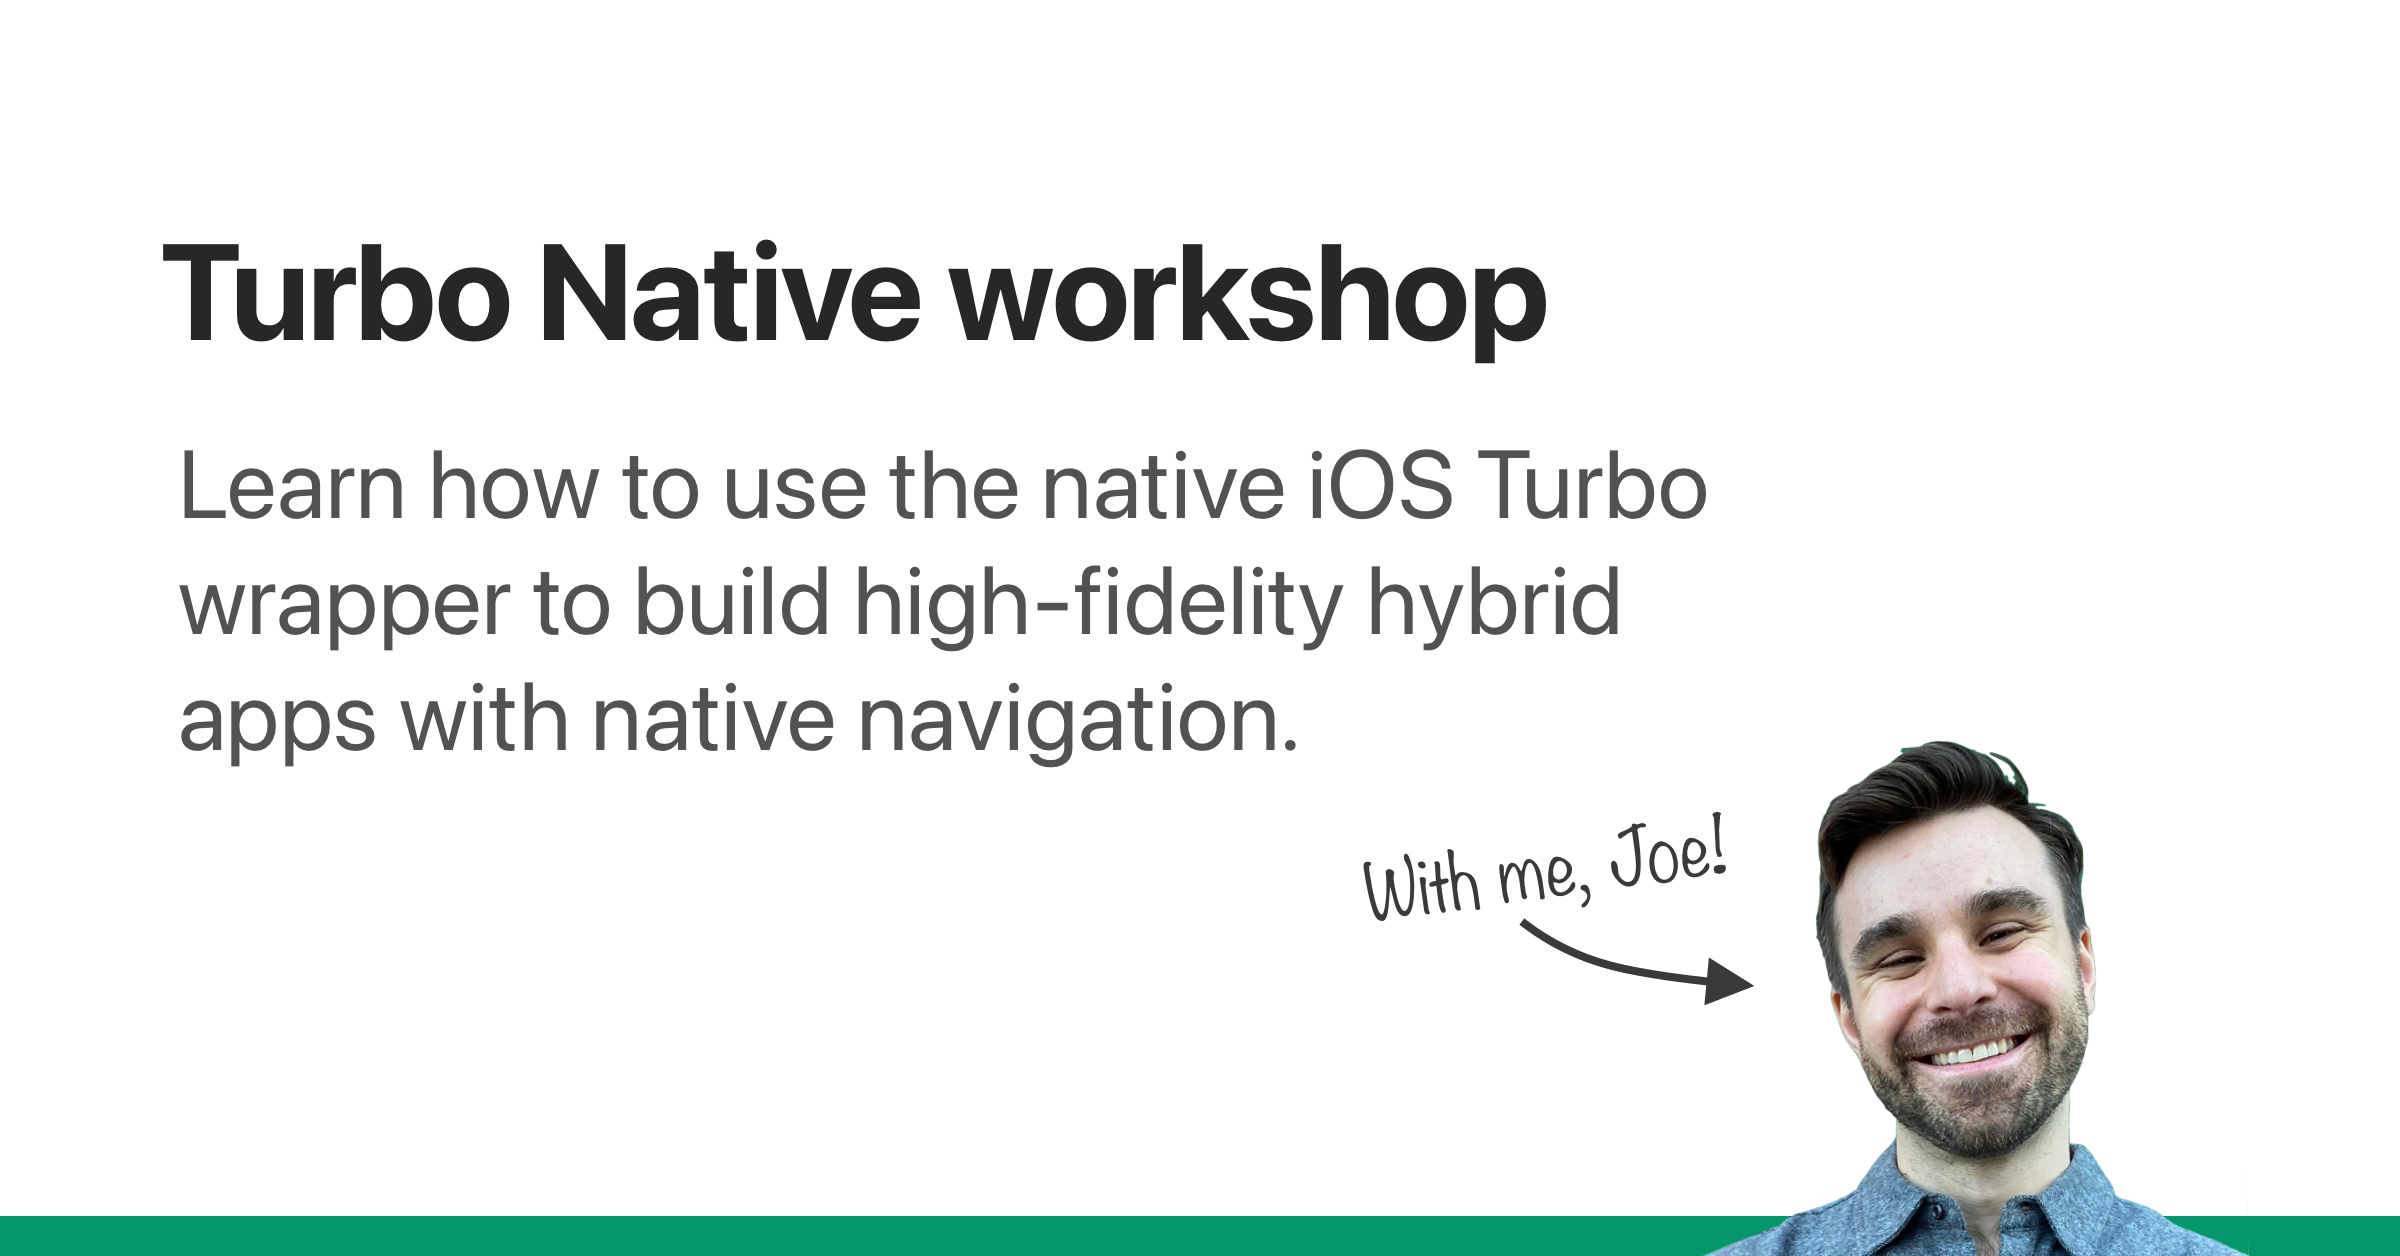
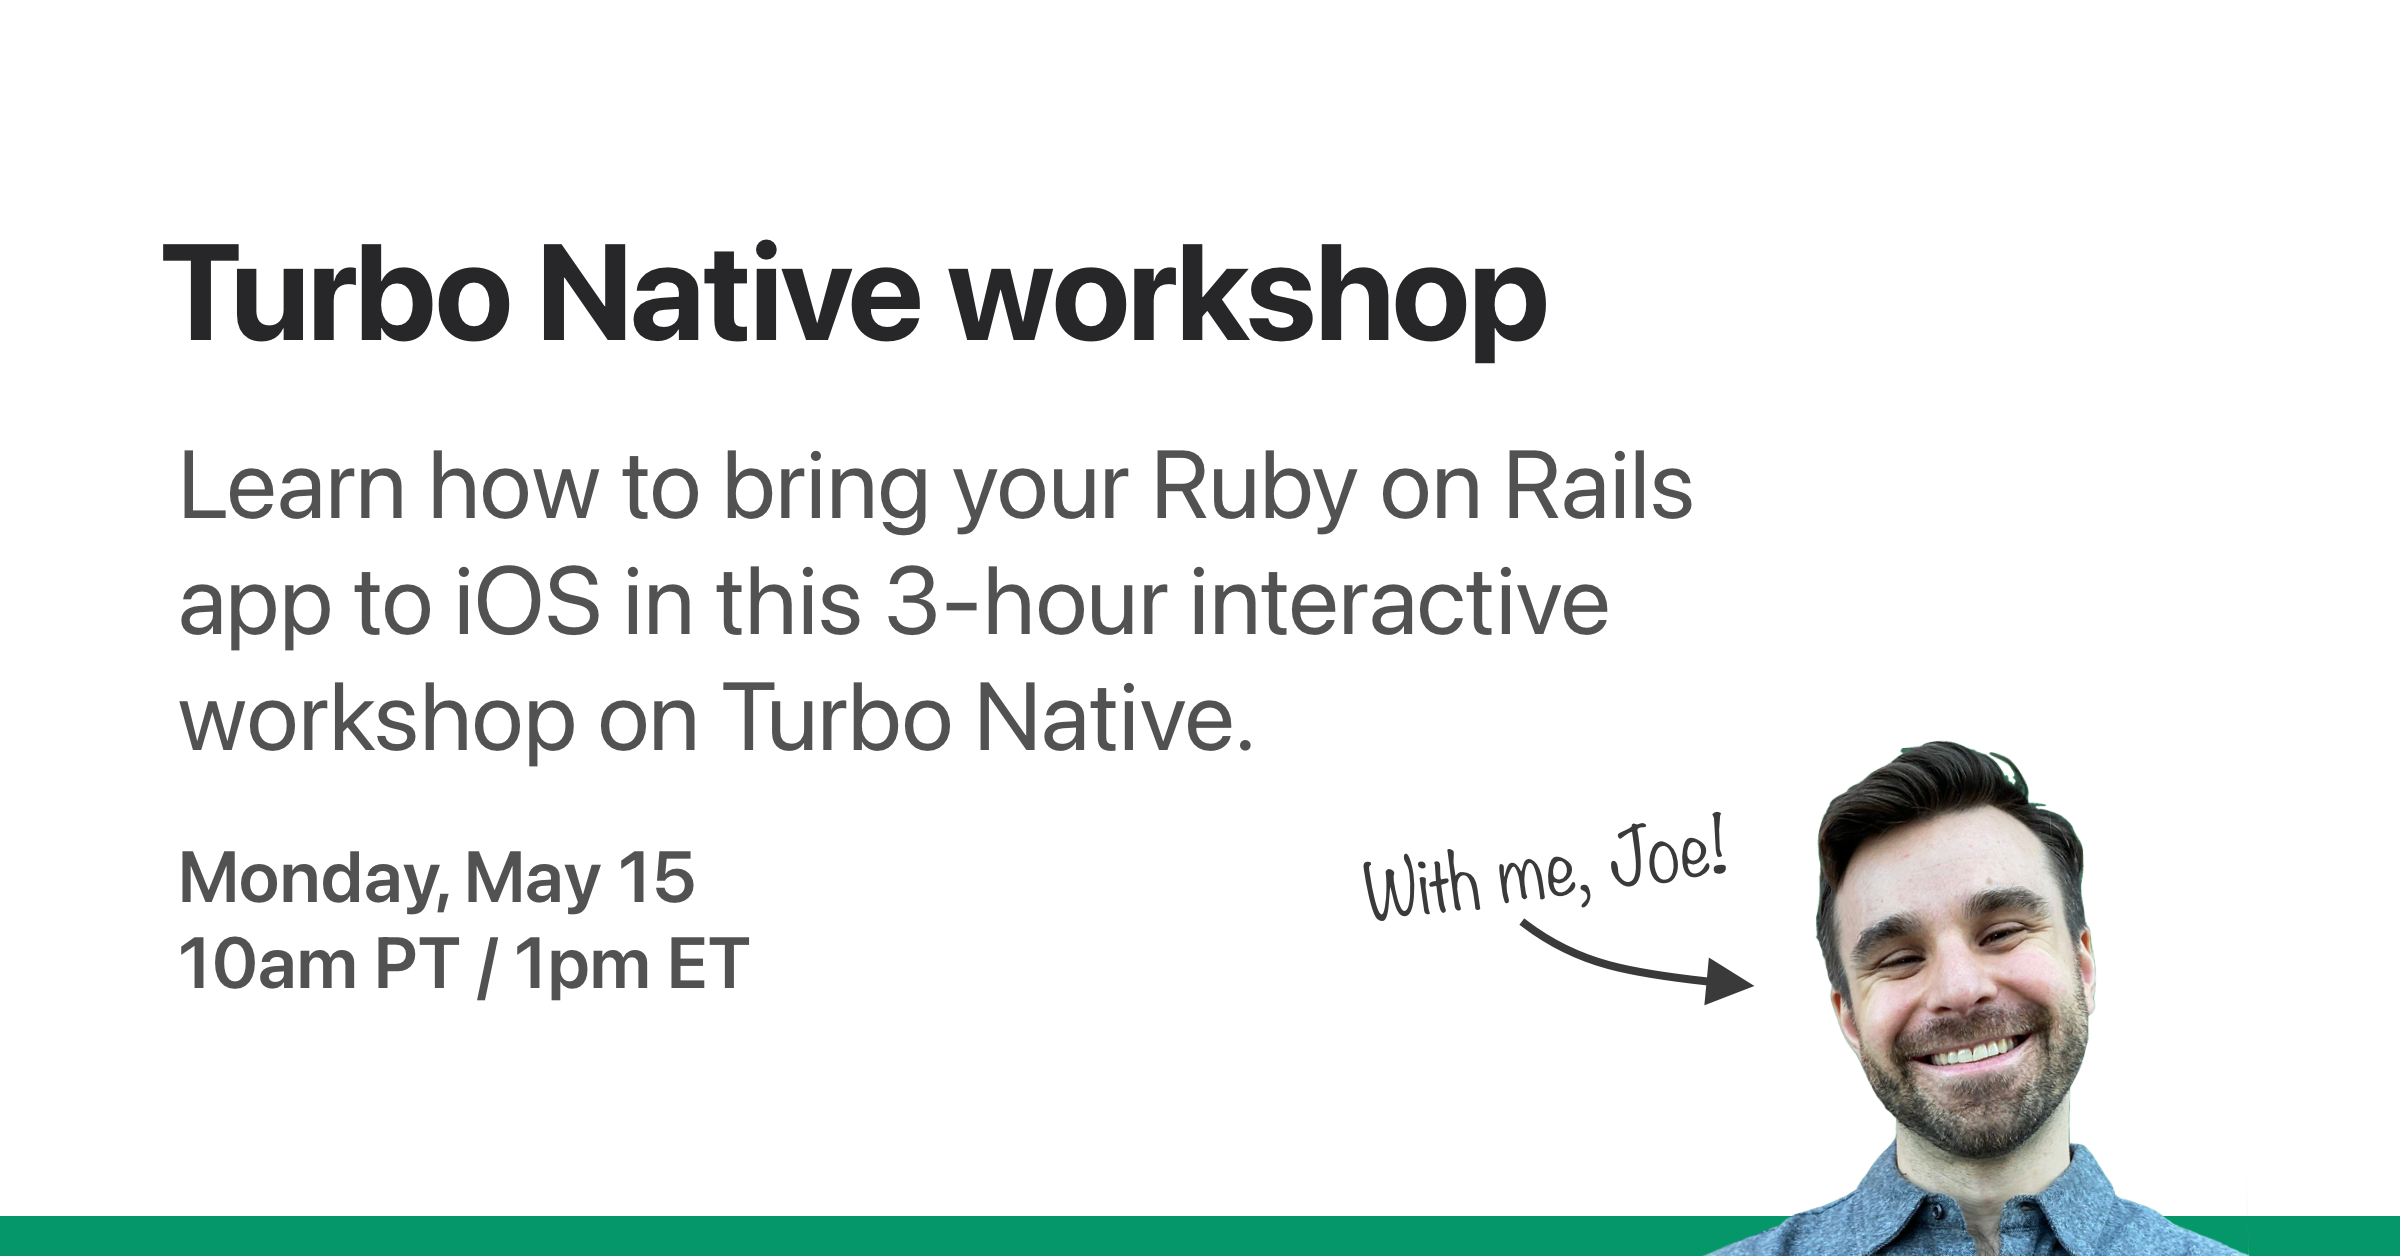
Turbo Native workshop session #2

Changed region(s): [[0.0625, 0.3416, 0.7188, 0.621], [0.0625, 0.6831, 0.3125, 0.8073]]

diff --git a/src/_components/ui/header.rb b/src/_components/ui/header.rb
@@ -1,9 +1,9 @@
 class UI::Header < SiteComponent
-  attr_reader :links, :current_path
+  attr_reader :links, :current_path, :announcements
 
-  def initialize(links:, current_path:, hide_avatar: false)
-    @links, @current_path, @hide_avatar =
-      links, current_path, hide_avatar
+  def initialize(links:, current_path:, announcements: nil, hide_avatar: false)
+    @links, @current_path, @announcements, @hide_avatar =
+      links, current_path, announcements, hide_avatar
   end
 
   def hide_avatar?

diff --git a/src/_components/announcement.rb b/src/_components/announcement.rb
@@ -1,0 +1,18 @@
+class Announcement < SiteComponent
+  delegate :title, :cta, :href, to: :announcement
+
+  def initialize(announcements)
+    @announcements = announcements
+  end
+
+  def render?
+    announcement.present?
+  end
+
+  private
+
+  def announcement
+    # Set to a key from src/_data/announcements.yml to render an announcement.
+    @announcements["workshop"]
+  end
+end

diff --git a/src/_pages/turbo-native-workshop.md b/src/_pages/turbo-native-workshop.md
@@ -7,10 +7,15 @@ permalink: /turbo-native-workshop/
 
 layout: page
 image: /images/pages/turbo-native-workshop.png
+template_engine: erb
 
 ---
 
-<p class="lead">Learn how to use the native iOS Turbo wrapper to build high-fidelity hybrid apps with native navigation in this 3-hour interactive workshop.</p>
+<p class="lead">Learn how to bring your Ruby on Rails app to iOS in this 3-hour interactive workshop on Turbo Native.</p>
+
+<div class="no-prose">
+  <%= render UI::Button.new(title: "Buy my ticket", href: "https://buy.stripe.com/00gfZq9f11yD0z6001") %>
+</div>
 
 Native apps are hard. They’re expensive to build and even more expensive to maintain. But with Turbo Native, that’s no longer true.
 
@@ -18,25 +23,50 @@ The framework enables Rails developers like you and me to build high-fidelity hy
 
 Turbo Native unlocks native apps for Rails developers in a way that avoids a maintenance nightmare. Adding a new feature to your Rails app is automatically available to your native apps — no rebuilding or resubmitting needed. And since you’re building mobile web views there’s not another framework or library to learn once you have Turbo Native set up.
 
-I've been working with Turbo Native since 2015. Since then I've helped half a dozen businesses launch in the App Store and consulted for twice as many. I know the gotchas, trade offs, and best practices. If you want to know something about Turbo Native, there’s a good chance I’ve done it before.
+The interactive workshop will be 3 hours long. You will learn how to use the native iOS Turbo wrapper to build high-fidelity hybrid apps with native navigation.
 
-The interactive workshop will be 3 hours long. You will learn how to use the native iOS Turbo wrapper to build high-fidelity hybrid apps with native navigation. Topics include:
+## What you will get out of this workshop
 
-1. Basic Turbo Native integration
-1. Native look and feel
-1. Web-based authentication
-1. The JavaScript bridge
-1. Native screens with SwiftUI
+**How to use Turbo Native** - Learn how to integrate the framework into a new Xcode project and how to handle common flows like clicking links and handling errors.
 
-A good portion of the workshop is live coding – sometimes I'll be driving and other times you will be given prompts to complete with other attendees. Every topic will wrap up with a Q&A session.
+**How to think like an iOS developer** - Master code navigation in Xcode, where to go for documentation, and how to follow the Apple Human Interface Guidelines.
 
-**The next session will cost $499** and take place in early 2023.
+**How to make your app feel more native** - Uncover hidden Rails helpers that abstract Turbo Native concepts and let us do what we do best, write Ruby code.
 
-Add your email to get first access when I open up registration.
+**How to authenticate users** - Configure Devise to ensure users remain signed in to the iOS app and how to make authenticated, non-web HTTP requests.
 
-<div class="not-prose">
-  <%= render EmailCapture.new(site.data.newsletters.workshop) %>
-  <small class="block mt-4">By signing up you’ll also be subscribed to the <a href="/hotwire" class="font-normal">Hotwire dev newsletter</a>.</small>
+**How to build native screens with SwiftUI** - Progressively enhance screens by converting them to fully native SwiftUI views, powered JSON endpoints.
+
+## Resources
+
+A good portion of the workshop is live coding – sometimes I'll be driving and other times you will be given prompts to complete with other attendees. The session will have two breaks and wrap up with Q&A.
+
+Attendees will also receive access to:
+
+**iOS + Rails codebases** - Private GitHub repositories to work through during the workshop. Together, these build the groundwork for launching your own Turbo Native app.
+
+**Private community** - Discord server to discuss Turbo Native and the take home activities with other attendees and myself.
+
+## Register
+
+May 15, 10am - 1pm PT on Zoom. $499 per person, limited to 20 attendees.
+
+<div class="no-prose">
+  <%= render UI::Button.new(title: "Buy my ticket", href: "https://buy.stripe.com/00gfZq9f11yD0z6001") %>
 </div>
 
-P.S. Have questions about the workshop? [Send me an email](mailto:joe@masilotti.com)!
+## About the author
+
+Hi, I'm Joe! I've been working with Turbo Native since 2015.
+
+I've helped dozens of businesses launch in the App Store. I know the gotchas, trade offs, and best practices. I'm excited to share what I've learned so you can launch your own app with Turbo Native.
+
+Have questions about the workshop? [Send me an email](mailto:joe@masilotti.com).
+
+## Prerequisites
+
+All attendees must be able to run a Ruby on Rails app and Xcode on their machine, clone a git repository, and navigate between git branches/tags.
+
+They must also have a basic understanding of Swift and iOS development. You should be comfortable working with optionals, protocols, delegates, extensions, and UIKit classes like `UIViewController` and `UINavigationController`.
+
+I'm hosting a [Swift + iOS crash course](https://www.youtube.com/live/H58Tj-i2aSE) live stream that can get you up to speed.
